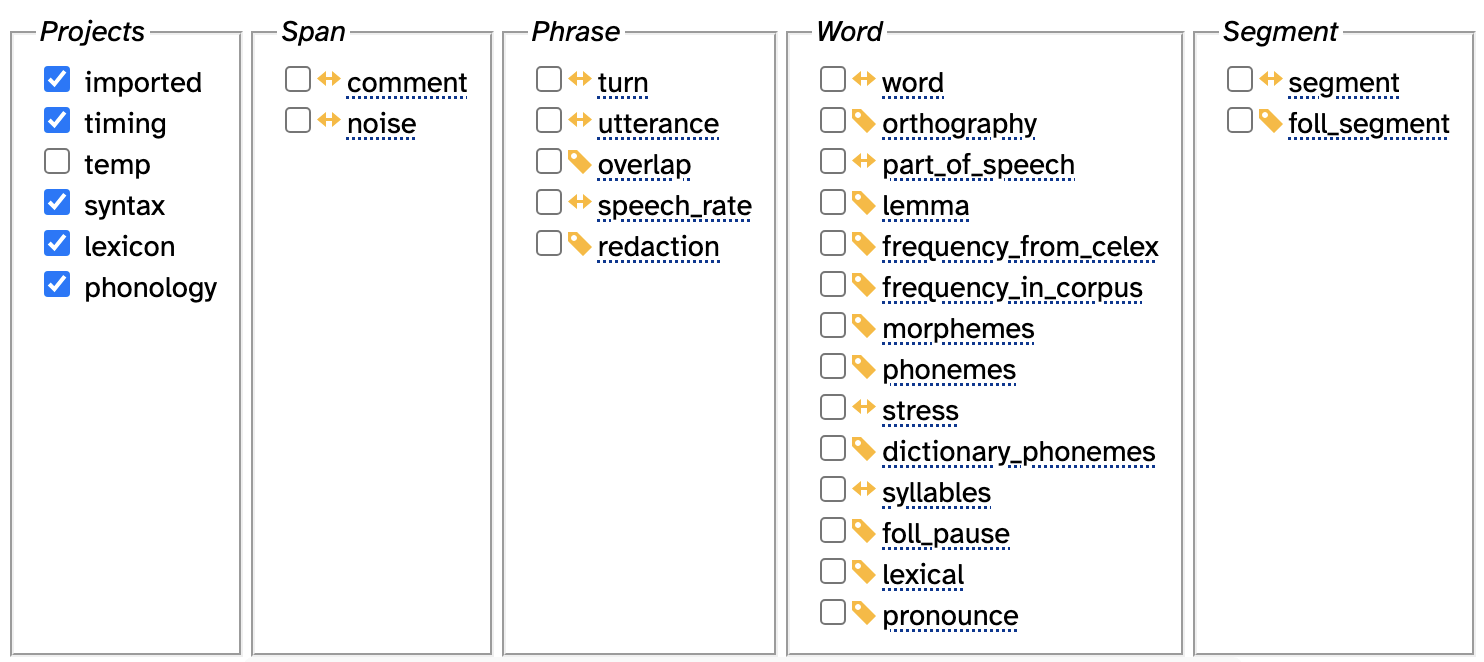
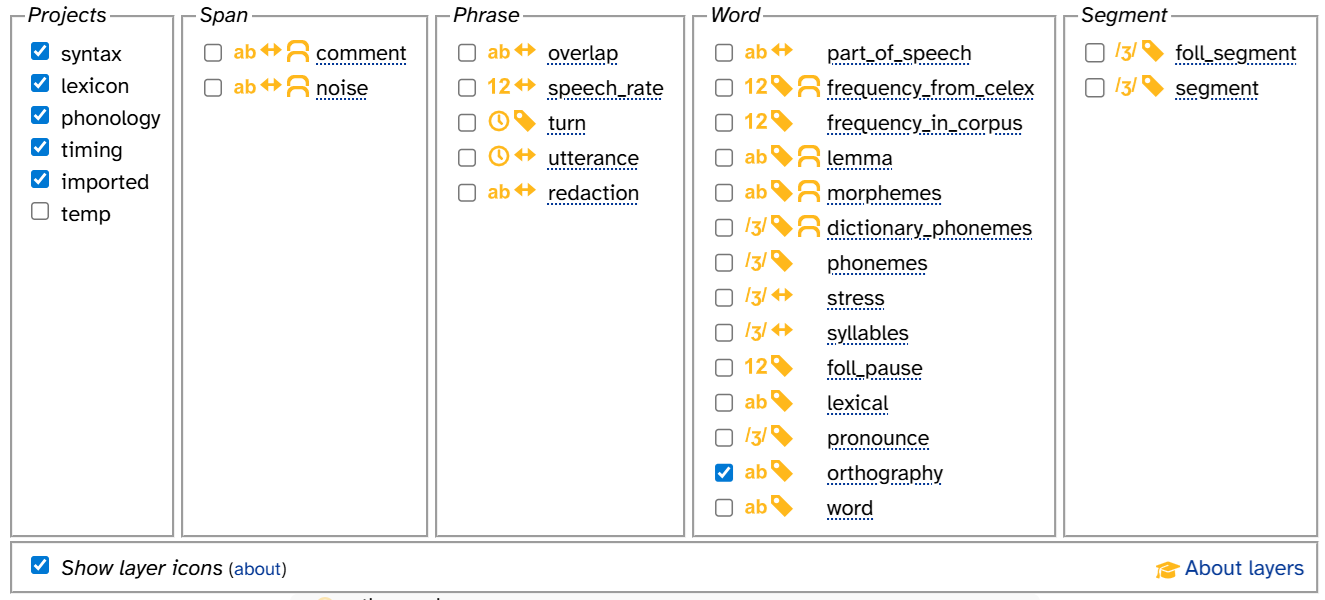
Update some search pages for APLS 0.4.1

Changed region(s): [[0.0, 0.0, 1.0, 1.0]]

diff --git a/doc/how-to-use/search/search-other-layers.md b/doc/how-to-use/search/search-other-layers.md
@@ -5,36 +5,40 @@ permalink: /doc/search-other-layers
 parent: Searching the corpus
 grand_parent: How to use APLS
 nav_order: 40
-last_modified_date: 2025-05-27T16:16:16-04:00
+last_modified_date: 2025-10-23T13:33:12-04:00
 ---
 
 # {{ page.title }}
 {:.no_toc}
 
 You can search more than just the <span class="layer">orthography</span> layer on the <span class="apls-page">Search</span> page.
-The first step in doing so is to use the <span class="keyterm">layer picker</span> menu.
+On this page, we'll discuss the <span class="apls-page">Search</span> page's [layer picker](#selecting-layers-to-search) and how [search patterns look different](#layer-data-types-and-notation-systems) for layers other than <span class="layer">orthography</span>.
+
+{: .note}
+> For an overview of how layers work in APLS, start with the [Layers and attributes]({{ '/doc/layers-and-attributes' | relative_url }}) documentation section.
+> In-depth descriptions of the different layers in APLS can be found in the [layer field guide]({{ '/doc/layer-field-guide' | relative_url }}).
 
 {% include page_toc.html collapsible=true %}
 
-## Selecting other layers to search
+## Selecting layers to search
 
-The <span class="keyterm">layer picker</span> on the <span class="apls-page">Search</span> page is similar to the [layer picker on <span class="apls-page">Transcript</span> pages]({{ '/doc/view-transcript#layer-selector' | relative_url }}), with some minor differences.[^differences]
+You can select and deselect layers in the layer picker to control which <span class="keyterm">pattern input fields</span> appear in the search matrix.
+(By default, the layer picker has the <span class="layer">orthography</span> layer already selected.)
+For example, here's what the search matrix looks like when <span class="layer">orthography</span> is deselected and <span class="layer">segment</span> is selected:
 
-[^differences]: The main difference is that <span class="apls-page">Transcript</span> pages always have the <span class="layer">word</span>, <span class="layer">turn</span>, and <span class="layer">utterance</span> layers selected and they cannot be de-selected. The <span class="apls-page">Search</span> page allows these layers to be toggled on and off.
+{% include screengrab.html src="search/matrix-segment.png" %}
 
-{% include screengrab.html src="search/layer-selector.png" %}
-
-By default, the layer picker has the <span class="layer">orthography</span> layer already selected.
-To make more [layers]({{ '/doc/layer-typology' | relative_url }}) appear, you have to select the [project]({{ '/doc/layer-typology#project' | relative_url }}) corresponding with that layer in the `Projects` column.
-
-{: .under-the-hood }
-> The <span class="layer">orthography</span>, <span class="layer">word</span>, and <span class="layer">segment</span> layers are displayed without selecting any projects because these layers are not associated with a project.
-
-Selecting a layer in the layer picker will make a [pattern input field]({{ '/doc/your-first-search' | relative_url }}) for that layer appear.
-
-{:.note}
+{: .note .no-collapse}
 > If you select a layer but don't enter anything into its pattern input field, it doesn't get applied to the search.
 
+The layer picker on the <span class="apls-page">Search</span> page works similarly to the [layer picker on the <span class="apls-page">Transcript</span> page]({{ '/doc/view-transcript#selecting-layers-to-display' | relative_url }}), with a few differences:
+
+- Unlike the <span class="apls-page">Transcript</span> page, <span class="layer">turn</span> and <span class="layer">utterance</span> can be selected, and <span class="layer">word</span> isn't selected by default.
+- Layer names don't change color when selected.
+- There are no annotation counts or IPA/DISC toggles.
+
+Like the layer picker on the <span class="apls-page">Transcript</span> page, most layers are hidden by default.
+To make more layers appear, you have to select the [project]({{ '/doc/layer-typology#project' | relative_url }}) corresponding with that layer in the `Projects` column.
 The screengrab below has the projects that are most useful to users toggled on to show all the layers that are useful for searching APLS.
 
 {% include screengrab.html src="search/all-layers.png" %}
@@ -43,58 +47,147 @@ The screengrab below has the projects that are most useful to users toggled on t
 > Layers in the `temp` project aren’t meaningful for end-users, so these layers are not discussed on this page.
 
 Hovering over the names of the layers will display a tooltip giving a brief description of that layer.
-For an overview of how layers work in APLS, start with the [Layers and attributes]({{ '/doc/layers-and-attributes' | relative_url }}) documentation section.
-In-depth descriptions of the different layers in APLS can be found in the [field guide]({{ '/doc/layer-field-guide' | relative_url }}).
 
-<!-- the apls-dev search page now has more layer icons and the option to hide layer icons -->
+
+### Layer picker icons
+{: .no_toc }
+
+If _Show layer icons_ is selected, each layer will have either two or three icons to the right of its checkbox in the layer picker.
+These icons indicate some of the layer's important properties.
+Here's a quick key;
+see the [layer typology]({{ '/doc/layer-typology' | relative_url }}) documentation page for more information:
+
+<!-- TODO turn this into an includes so it can be reused on other pages -->
+<table class="icon-table">
+  <thead>
+    <tr>
+      <th colspan="2"><a href="{{ '/doc/layer-typology#data-type' | relative_url }}">Data type</a></th>
+      <th colspan="2"><a href="{{ '/doc/layer-typology#alignment-and-horizontal-peers' | relative_url }}">Alignment</a></th>
+      <th colspan="2"><a href="{{ '/doc/layer-typology#vertical-peers' | relative_url }}">Vertical peers</a></th>
+    </tr>
+  </thead>
+  <tbody>
+    <tr>
+      <td>{% include labbcat-icon.html src="data-type-phonological.svg" %}</td>
+      <td>Phonological</td>
+      <td>{% include labbcat-icon.html src="alignment-0.svg" %}</td>
+      <td>Complete interval</td>
+      <td>{% include labbcat-icon.html src="vertical-peers.svg" %}</td>
+      <td>Allows vertical peers</td>
+    </tr>
+    <tr>
+      <td>{% include labbcat-icon.html src="data-type-numeric.svg" %}</td>
+      <td>Numeric</td>
+      <td>{% include labbcat-icon.html src="alignment-2.svg" %}</td>
+      <td>Sub-interval</td>
+      <td>(none)</td>
+      <td>Doesn't allow vertical peers</td>
+    </tr>
+    <tr>
+      <td>{% include labbcat-icon.html src="data-type-text.svg" %}</td>
+      <td>Text</td>
+      <td rowspan="2" colspan="4"></td>
+    </tr>
+    <tr>
+      <td>{% include labbcat-icon.html src="data-type-timing-only.svg" %}</td>
+      <td>Timing-only</td>
+    </tr>
+  </tbody>
+</table>
+
+This means that, for example, the <span class="layer">segment</span> layer has phonological data type, complete-interval alignment, and no vertical peers: ![]({{ '/assets/screengrab/transcripts/layer-picker-segment-icons.png' | relative_url }}){:style="height:1.5em; border:.1em solid black;"}.
+
+{: .under-the-hood}
+> The _about_ link points to the page section you're reading right now!
+
 
 ## Layer data types and notation systems
 
-Different layers in APLS contain different kinds of annotations.
+Different layers in APLS contain different kinds of annotations: <span class="keyterm">data types</span>.
 These differences affect what and how you can search in each layer.
 
-The four data types are:
-- Text
-- Phonological
-- Numeric
-- Timing-only
-
-More information about these data types is provided on the [Layer typology]({{ '/doc/layer-typology#data-type' | relative_url }}) documentation page, but for learning how to use the <span class="apls-page">Search</span> page it is most useful to simply know that these distinctions exist.
-
-While data type describes the *kinds* of annotation that different layers contain, notation systems are what those annotations actually *look like*.
+While data type describes the *kinds* of annotation that different layers contain, <span class="keyterm">notation systems</span> are what those annotations actually *look like*.
 All layers have a <span class="keyterm">primary notation system</span> (with the exception of timing-only layers because their annotations don't have labels).
 
 The primary notation systems by data type are:
+- Phonological
+  - DISC phonemic alphabet
+  - Stress markers (`'` [primary stress], `"` [secondary stress], `0` [unstressed])
 - Text
   - English spelling
   - Treebank part-of-speech tags
   - Boolean (`TRUE` or `FALSE`)
-- Phonological
-  - DISC phonemic alphabet
-  - Stress markers (`'` [primary stress], `"` [secondary stress], `0` [unstressed])
 - Numeric
   - Positive whole numbers
   - Decimal numbers
   
 You can read more about notation systems on the [Layer typology]({{ '/doc/layer-typology#notation-system' | relative_url }}) and [Layer notation systems]({{ '/doc/layer-notation-systems' | relative_url }}) documentation pages.
 
-Pattern input fields for layers that don't use English spelling or numbers include drop-down selection menus (shown with a {% include labbcat-icon.html src="expand-down.svg" %} icon) that contain valid input for that layer. 
 
-{% include screengrab.html src="search/dropdown-menu.png" %}
+### Symbol picker
 
-{% include screengrab.html src="search/dropdown-menu-expanded.png" %}
+To make these layers easier to search, layers that don't use English spelling or numbers have an additional part in their pattern input fields: a <span class="keyterm">symbol picker</span>, shown with a {% include labbcat-icon.html src="expand-down.svg" %} icon.
+For example, we can see the {% include labbcat-icon.html src="expand-down.svg" %} icon for the <span class="layer">syllables</span> layer, which uses stress markers and the DISC phonemic alphabet:
+
+{% include screengrab.html src="search/syllables.png" %}
+
+To bring up the symbol picker, click the {% include labbcat-icon.html src="expand-down.svg" %} icon:
+
+{% include screengrab.html src="search/symbol-picker.png" %}
 
 This saves you the trouble of needing to memorize things like the DISC alphabet or part-of-speech tags to use all of the <span class="apls-page">Search</span> page's functionalities!
+
+The <span class="layer">syllables</span> symbol picker includes individual IPA symbols (like _θ_), subcategories (like _Diphthongs_), and categories (like _CONSONANT_).
+If you click an **IPA** symbol, it will fill (and briefly highlight) the corresponding **DISC** symbol into the pattern input field.
+For example, when you click _θ_ for <span class="layer">syllables</span>, APLS fills in this phoneme's DISC symbol, `T`:
+
+{% include screengrab.html src="search/symbol-picker-single.png" %}
+
+You can click multiple symbols/(sub)categories in the label picker to add multiple symbols to the pattern input field.
+For example, here's what it looks like when you take the previous image, then click _ɹ_, then _oʊ_:
+
+{% include screengrab.html src="search/symbol-picker-multiple.png" %}
+
+{: .note .no-collapse}
+> New symbols are inserted at the end of the pattern by default.
+> If you want to add a new symbol earlier in the pattern, put your cursor wherever you want the new symbol, then click the symbol picker.
+
+If you click a subcategory or category in the symbol picker, APLS fills in (and briefly highlights) a [regex character set]({{ '/doc/regex#square-brackets-' | relative_url }}) that matches any member of that (sub)category.
+For example, here's what it looks like when you take the previous image, move your cursor before `T`, then click _STRESS_:
+
+{% include screengrab.html src="search/symbol-picker-category.png" %}
+
 Similar to other parts of APLS, you can hover your mouse over the options in these drop-down menus to get a short tooltip description for each symbol.
+For phonological layers, consonants that have the same symbol in both IPA and DISC are left off of the symbol picker to save space.
+However, you can hover over `Other consonants: Use normal IPA` to see a list of these consonants.
 
-{: .under-the-hood }
-> The drop-down menus are displayed as IPA symbols, but they are input into the text fields using the DISC alphabet.
-> Because the purpose of DISC is to make phonetic transcription more machine-readable, the only characters that are different from IPA are the ones that aren't found on QWERTY keyboards.
-> IPA characters found on QWERTY keyboards, like /p/ or /i/, are represented the same in DISC.
 
-### Searching text layers...
+### Searching phonological layers
 
-#### using English spelling
+The phonological layers (and what is included in their symbol pickers) in APLS are:
+- <span class="layer">phonemes</span> (IPA symbols that are not on QWERTY keyboards)
+- <span class="layer">dictionary_phonemes</span> (IPA symbols that are not on QWERTY keyboards)
+- <span class="layer">stress</span> (stress markers)
+- <span class="layer">pronounce</span> (IPA symbols that are not on QWERTY keyboards, stress markers, and syllable boundaries)
+- <span class="layer">syllables</span> (IPA symbols that are not on QWERTY keyboards and stress markers)
+- <span class="layer">segment</span> (IPA symbols that are not on QWERTY keyboards)
+- <span class="layer">foll_segment</span> (IPA symbols that are not on QWERTY keyboards and a pause marker)
+
+{:.note .no-collapse}
+> The <span class="layer">segment</span> and <span class="layer">foll_segment</span> layers have additional capabilities that are described in [Searching segments within words]({{ '/doc/search-segments' | relative_url }}).
+
+{: .try-it }
+> To find all matches for syllables with /ʊ/ that have secondary stress:
+> 1. Go to the [<span class="apls-page">Search</span> page](https://apls.pitt.edu/labbcat/search).
+> 1. Select the `phonology` project in the layer picker and click the checkbox for the <span class="layer">syllables</span> layer to make the syllables input field appear.
+> 1. Open the symbol picker (click {% include labbcat-icon.html src="expand-down.svg" %}) and select `secondary` under the `STRESS` heading.
+> 1. Enter `.*` after `"` in the syllables input field.
+> 1. Open the symbol picker again ({% include labbcat-icon.html src="expand-down.svg" %}) and select `ʊ` under the `VOWEL` heading.
+> 1. Enter `.*` after `".*U` in the syllables input field.
+> 1. Click _Search_.
+
+
+### Searching text layers that use English spelling
 
 As discussed in [Your first search]({{ '/doc/your-first-search' | relative_url }}), you can search the <span class="layer">orthography</span> layer using English spelling.
 Other layers that can be searched using English spelling are:
@@ -111,49 +204,27 @@ Other layers that can be searched using English spelling are:
 > All redactions are annotated as `___` on the word layer, which is what appears on the <span class="apls-page">Search results</span> page for redactions.
 > However, the pattern for <span class="layer">redaction</span> must match the comments in the <span class="layer">redaction</span> layer.
 > Therefore, searching for `___` on the <span class="layer">redaction</span> layer won't display any results but searching `.*name.*` will show all redactions that contain "name" in the comment.
-  
-##### using part-of-speech tags
 
-The only syntax layer in APLS is the <span class="layer">part_of_speech</span> layer, which has a selection menu for accepted part-of-speech tags.
+### Text layers that use part-of-speech tags
+
+Currently, <span class="layer">part_of_speech</span> is the only layer that uses part-of-speech tags (specifically, Treebank tags).
+Like phonological layers, <span class="layer">part_of_speech</span> includes a [symbol picker](#symbol-picker).
 
 {: .try-it }
 > To find matches for every superlative adjective in APLS:
 > 1. Go to the [<span class="apls-page">Search</span> page](https://apls.pitt.edu/labbcat/search).
 > 1. Select the `syntax` project in the layer picker and click the checkbox for the <span class="layer">part_of_speech</span> layer to make the part_of_speech input field appear.
-> 1. Click the drop-down menu button ({% include labbcat-icon.html src="expand-down.svg" %}) and select `JJS`.
-> 1. Click the _Search_ button.
+> 1. Open the symbol picker (click {% include labbcat-icon.html src="expand-down.svg" %}) and select `JJS`.
+> 1. Click _Search_.
 
-#### using boolean values (for overlap)
+### Text layers that use Boolean values
 
-The <span class="layer">overlap</span> layer is part of the [timing project]({{ '/doc/layer-typology#project' | relative_url }}), but it contains text data in the form of Boolean values: `TRUE` for speech that is overlapping and `FALSE` for speech that isn't overlapping. 
-The <span class="layer">overlap</span> layer has a drop-down selection menu for these two `TRUE` and `FALSE` values.
-
-### Searching phonological layers
-
-The phonology layers (and what is included in their drop-down menus) in APLS are:
-- <span class="layer">phonemes</span> (IPA symbols that are not on QWERTY keyboards)
-- <span class="layer">dictionary_phonemes</span> (IPA symbols that are not on QWERTY keyboards)
-- <span class="layer">stress</span> (stress markers)
-- <span class="layer">pronounce</span> (IPA symbols that are not on QWERTY keyboards and stress markers)
-- <span class="layer">syllables</span> (IPA symbols that are not on QWERTY keyboards and stress markers)
-
-{:.note .no-collapse}
-> <span class="layer">segment</span> and <span class="layer">foll_segment</span> layers are similar to the phonological layers in this section, but they have additional capabilities that are described in [Searching segments within words]({{ '/doc/search-segments' | relative_url }}).
-
-{: .try-it }
-> To find all matches for syllables with /ʊ/ that have secondary stress:
-> 1. Go to the [<span class="apls-page">Search</span> page](https://apls.pitt.edu/labbcat/search).
-> 1. Select the `phonology` layer in the layer picker and click the checkbox for the <span class="layer">syllables</span> layer to make the syllables input field appear.
-> 1. Click the drop-down menu button ({% include labbcat-icon.html src="expand-down.svg" %}) and select `secondary` under the `STRESS` heading.
-> 1. Enter `.*` after `"` in the syllables input field.
-> 1. Click the drop-down menu button ({% include labbcat-icon.html src="expand-down.svg" %}) and select `ʊ` under the `VOWEL` heading.
-> 1. Enter `.*` after `".*U` in the sylablles input field.
-> 1. Click the _Search_ button.
+Currently, <span class="layer">overlap</span> is the only layer that uses Boolean values: `TRUE` for speech that is overlapping and `FALSE` for speech that isn't overlapping. 
+Like phonological layers, <span class="layer">part_of_speech</span> includes a [symbol picker](#symbol-picker).
 
 ### Searching numeric layers
 
-Some layers contain numeric data, instead of text data.
-As a result, the pattern input fields for these layers allow you to define a numerical range you would like to search for.
+The pattern input fields for numeric layers allow you to define a numerical range you would like to search for.
 
 The following layers use numeric range input fields:
 - <span class="layer">frequency_from_celex</span> 
@@ -162,10 +233,10 @@ The following layers use numeric range input fields:
 - <span class="layer">foll_pause</span> 
 
 {: .try-it }
-> To find every word that only appears in the corpus one to two times:
+> To find every word that only appears in the corpus once or twice:
 > 1. Go to the [<span class="apls-page">Search</span> page](https://apls.pitt.edu/labbcat/search).
 > 1. Select the `lexicon` project in the layer picker and click the checkbox for the <span class="layer">frequency_in_corpus</span> layer to make the frequency_in_corpus input field appear.
-> 1. Enter `1` in the frequency_in_corpus _Minimum_ input field and enter `2` in the frequency_in_corpus _Maximum_ input field.
+> 1. Enter `1` in the frequency_in_corpus _Minimum_ input field and enter `3` in the frequency_in_corpus _Maximum_ input field.
 > 1. Click the _Search_ button.
 > - This search will include incomplete words as well.
 >   To exclude incomplete words, select _doesn't match_ from the _matches_ drop-down menu and enter `.+~` into the orthography input field.

diff --git a/doc/how-to-use/search/your-first-search.md b/doc/how-to-use/search/your-first-search.md
@@ -5,14 +5,14 @@ permalink: /doc/your-first-search
 parent: Searching the corpus
 grand_parent: How to use APLS
 nav_order: 10
-last_modified_date: 2025-05-27T16:16:17-04:00
+last_modified_date: 2025-10-23T13:33:12-04:00
 ---
 
 # {{ page.title }}
 {:.no_toc}
 
 If you are a newcomer to APLS, this page will help you get acquainted with the [<span class="apls-page">Search</span>](https://apls.pitt.edu/labbcat/search) page by walking you through a simple corpus search.
-After following along with the example search on this page, you can visit the other pages in the [<span class="apls-page">Search</span> page documentation]({{ '/doc/search' | relative_url }}) to learn about the more advanced <span class="apls-page">Search</span> page features.
+After following along with the example search on this page, you can visit [the other pages in this section]({{ '/doc/search' | relative_url }}) to learn about the more advanced <span class="apls-page">Search</span> page features.
 
 {% include page_toc.html collapsible=true %}
 
